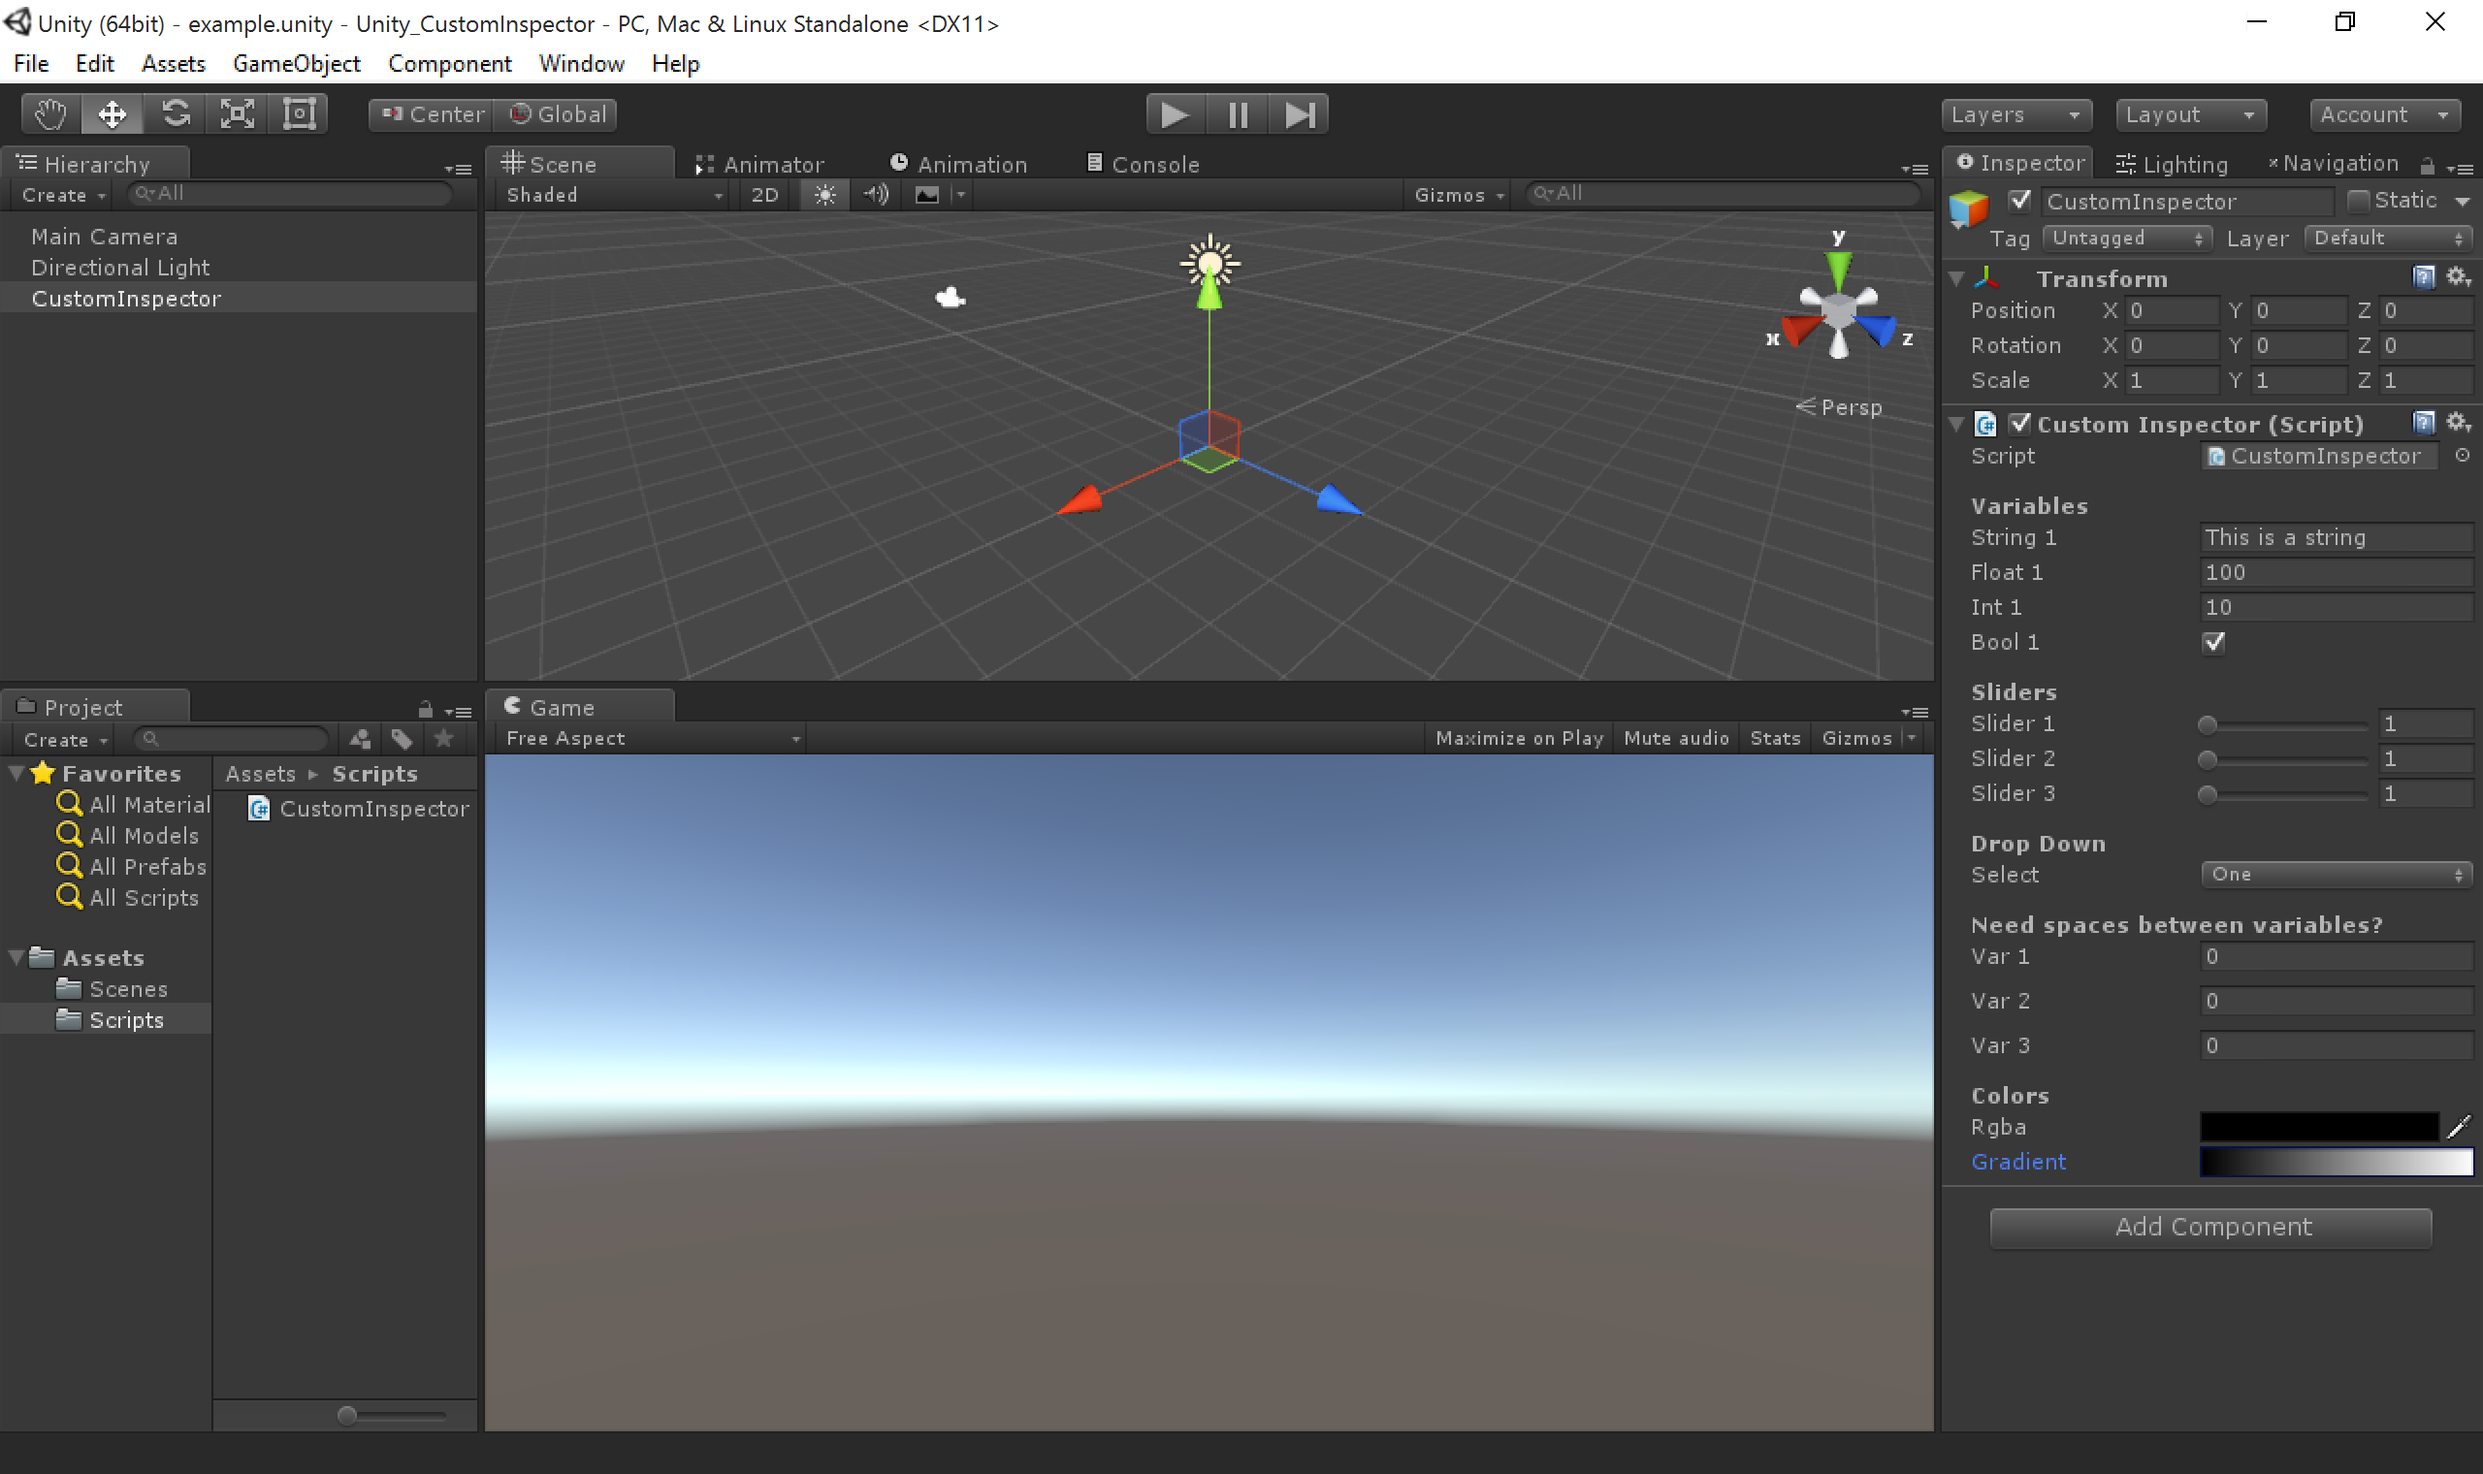
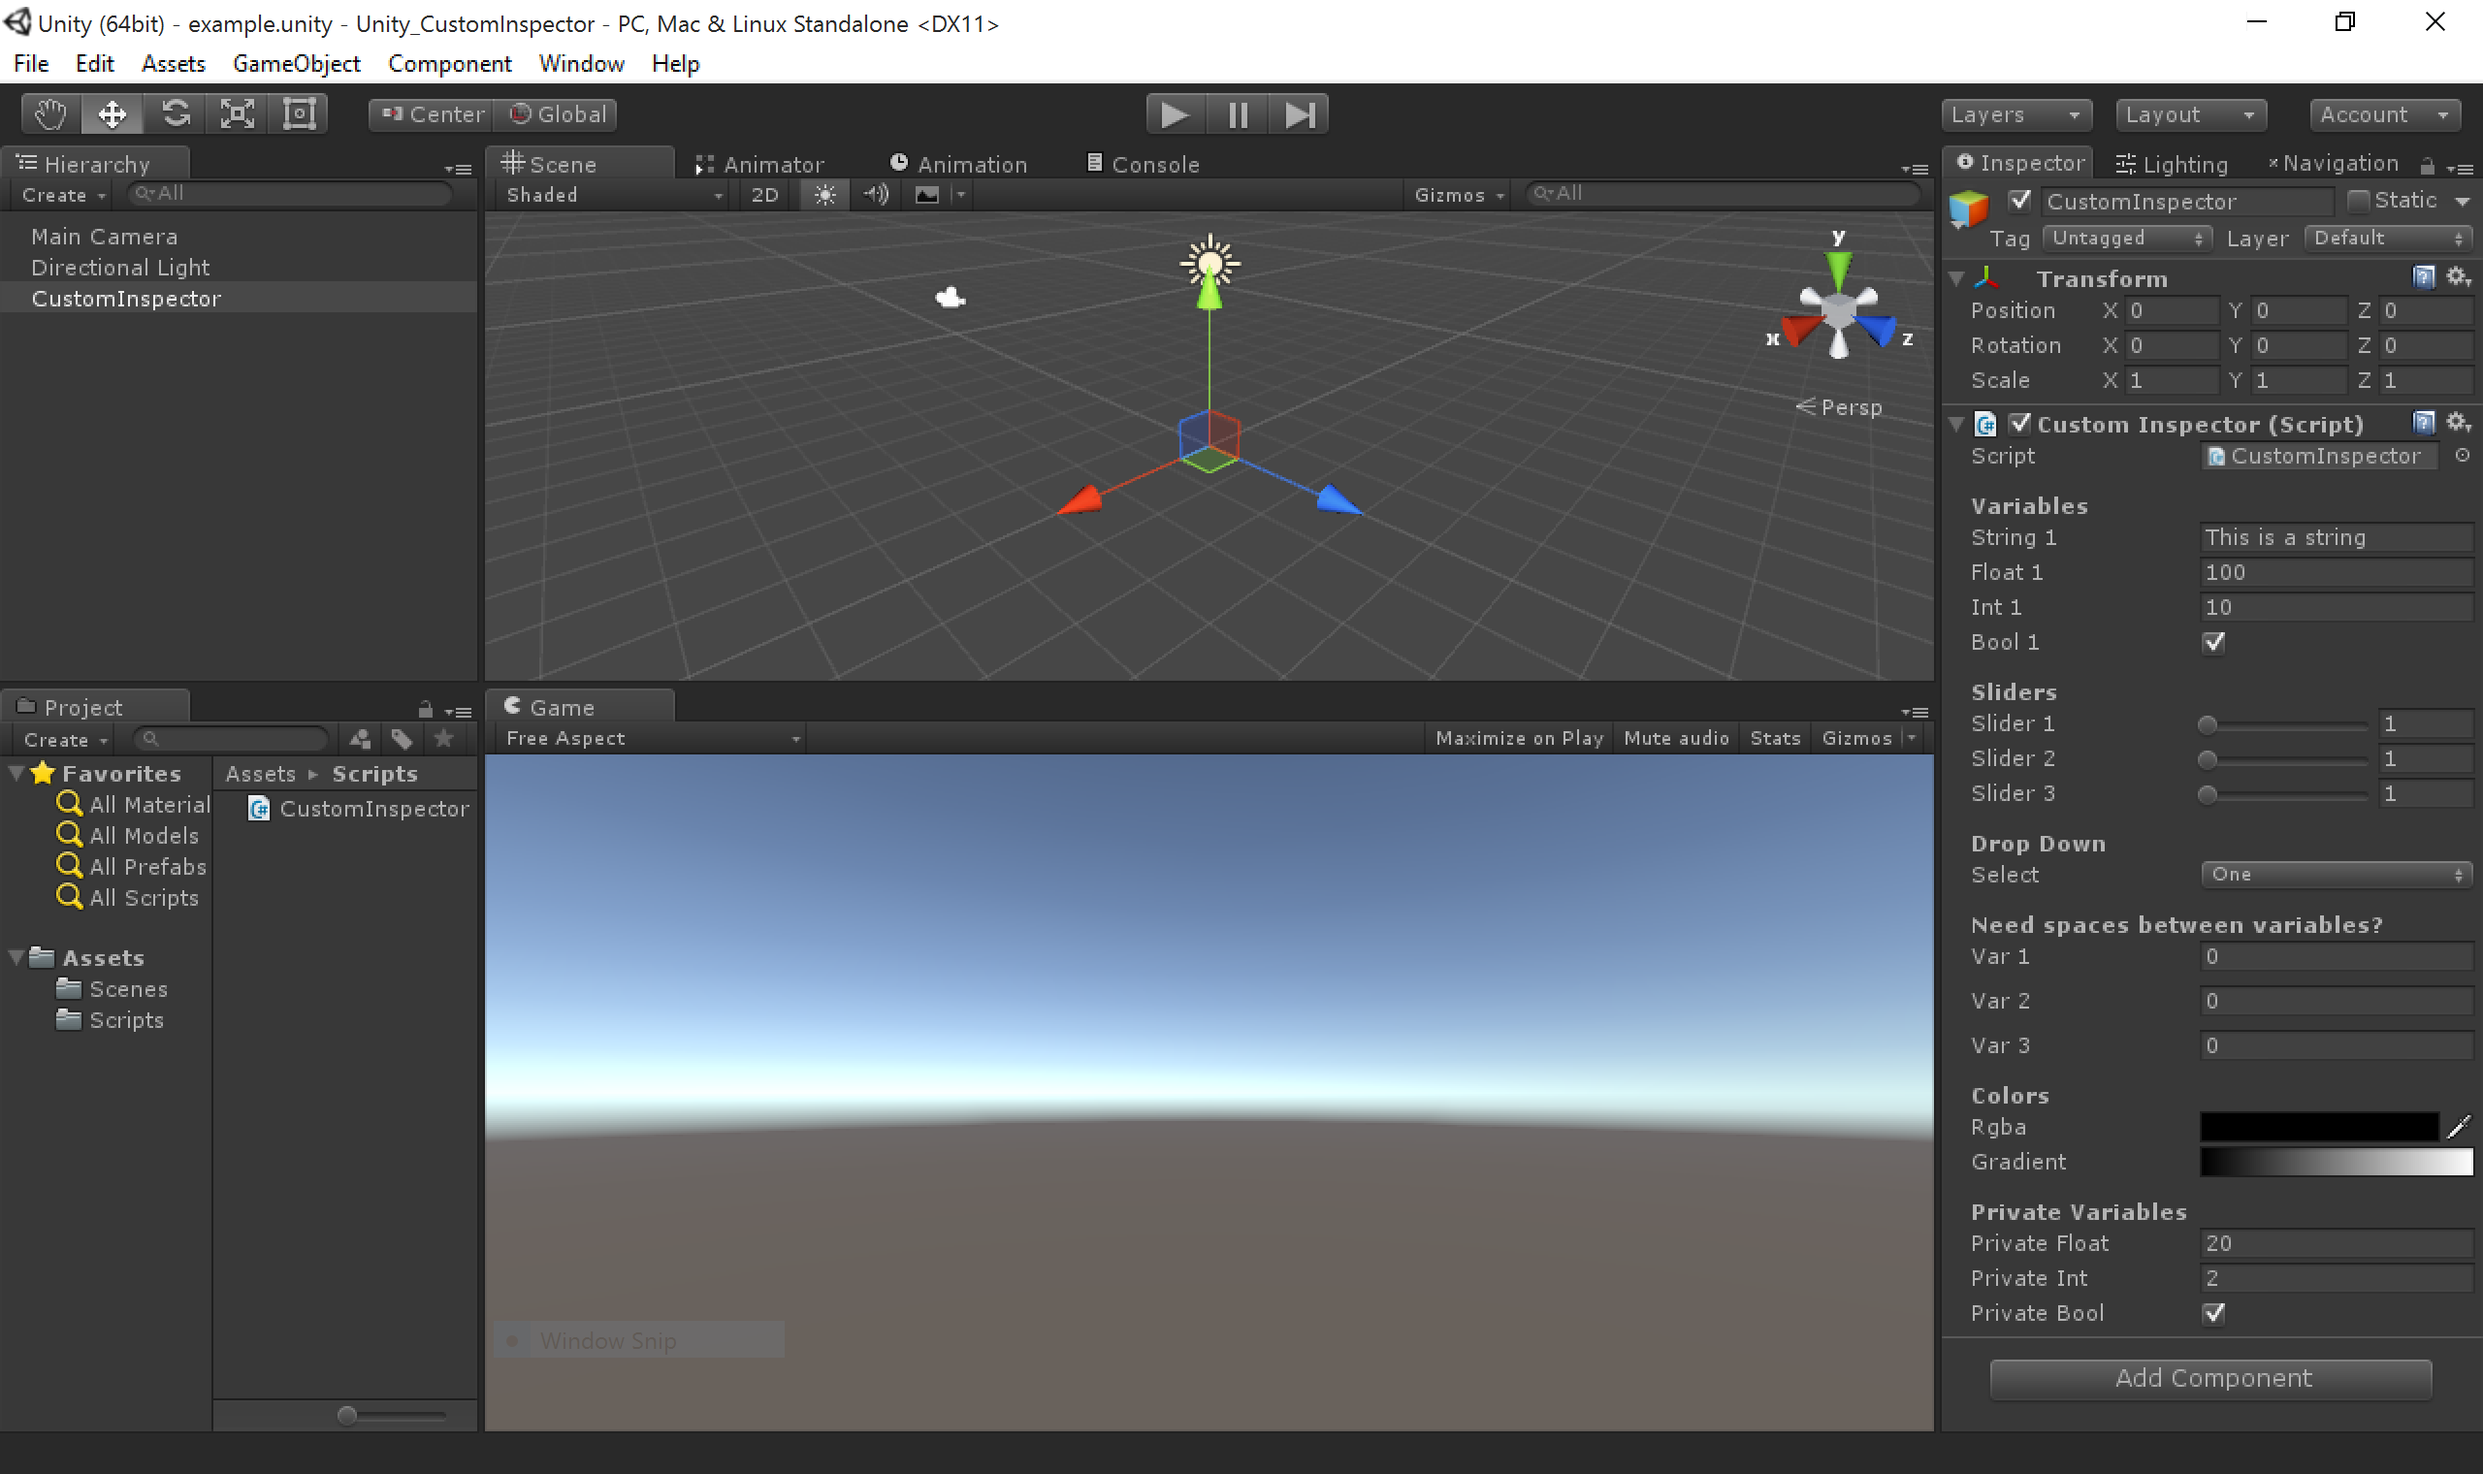
added private variables

Changed region(s): [[0.7812, 0.773, 1.0, 0.9586], [0.0312, 0.6803, 0.0625, 0.7112]]

diff --git a/Assets/Scripts/CustomInspector.cs b/Assets/Scripts/CustomInspector.cs
@@ -46,6 +46,14 @@ public class CustomInspector : MonoBehaviour
     public Color rgba;
     public Gradient gradient;
 
+    [Header("Private Variables")]
+    [SerializeField]
+    private float privateFloat = 20.0f;
+    [SerializeField]
+    private int privateInt = 2;
+    [SerializeField]
+    private bool privateBool = true;
+
     // Use this for initialization
     void Start()
     {
